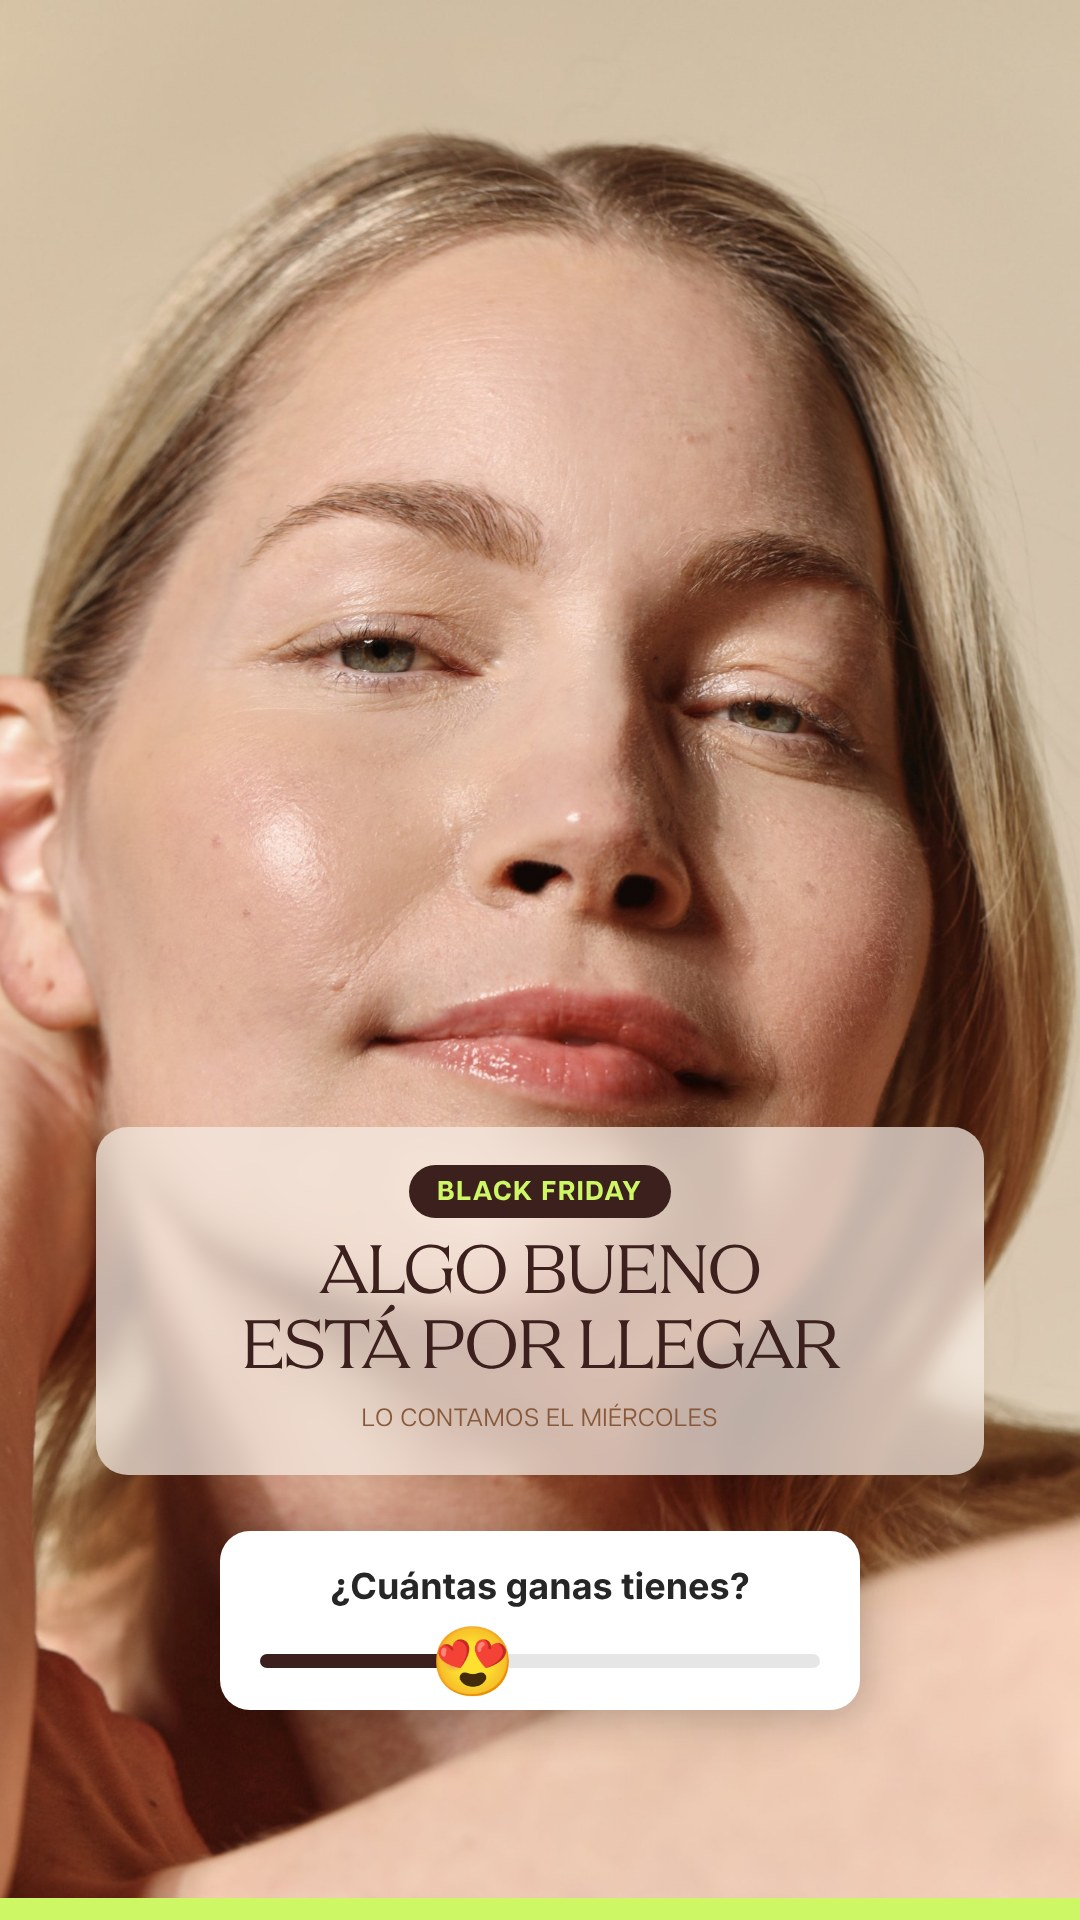
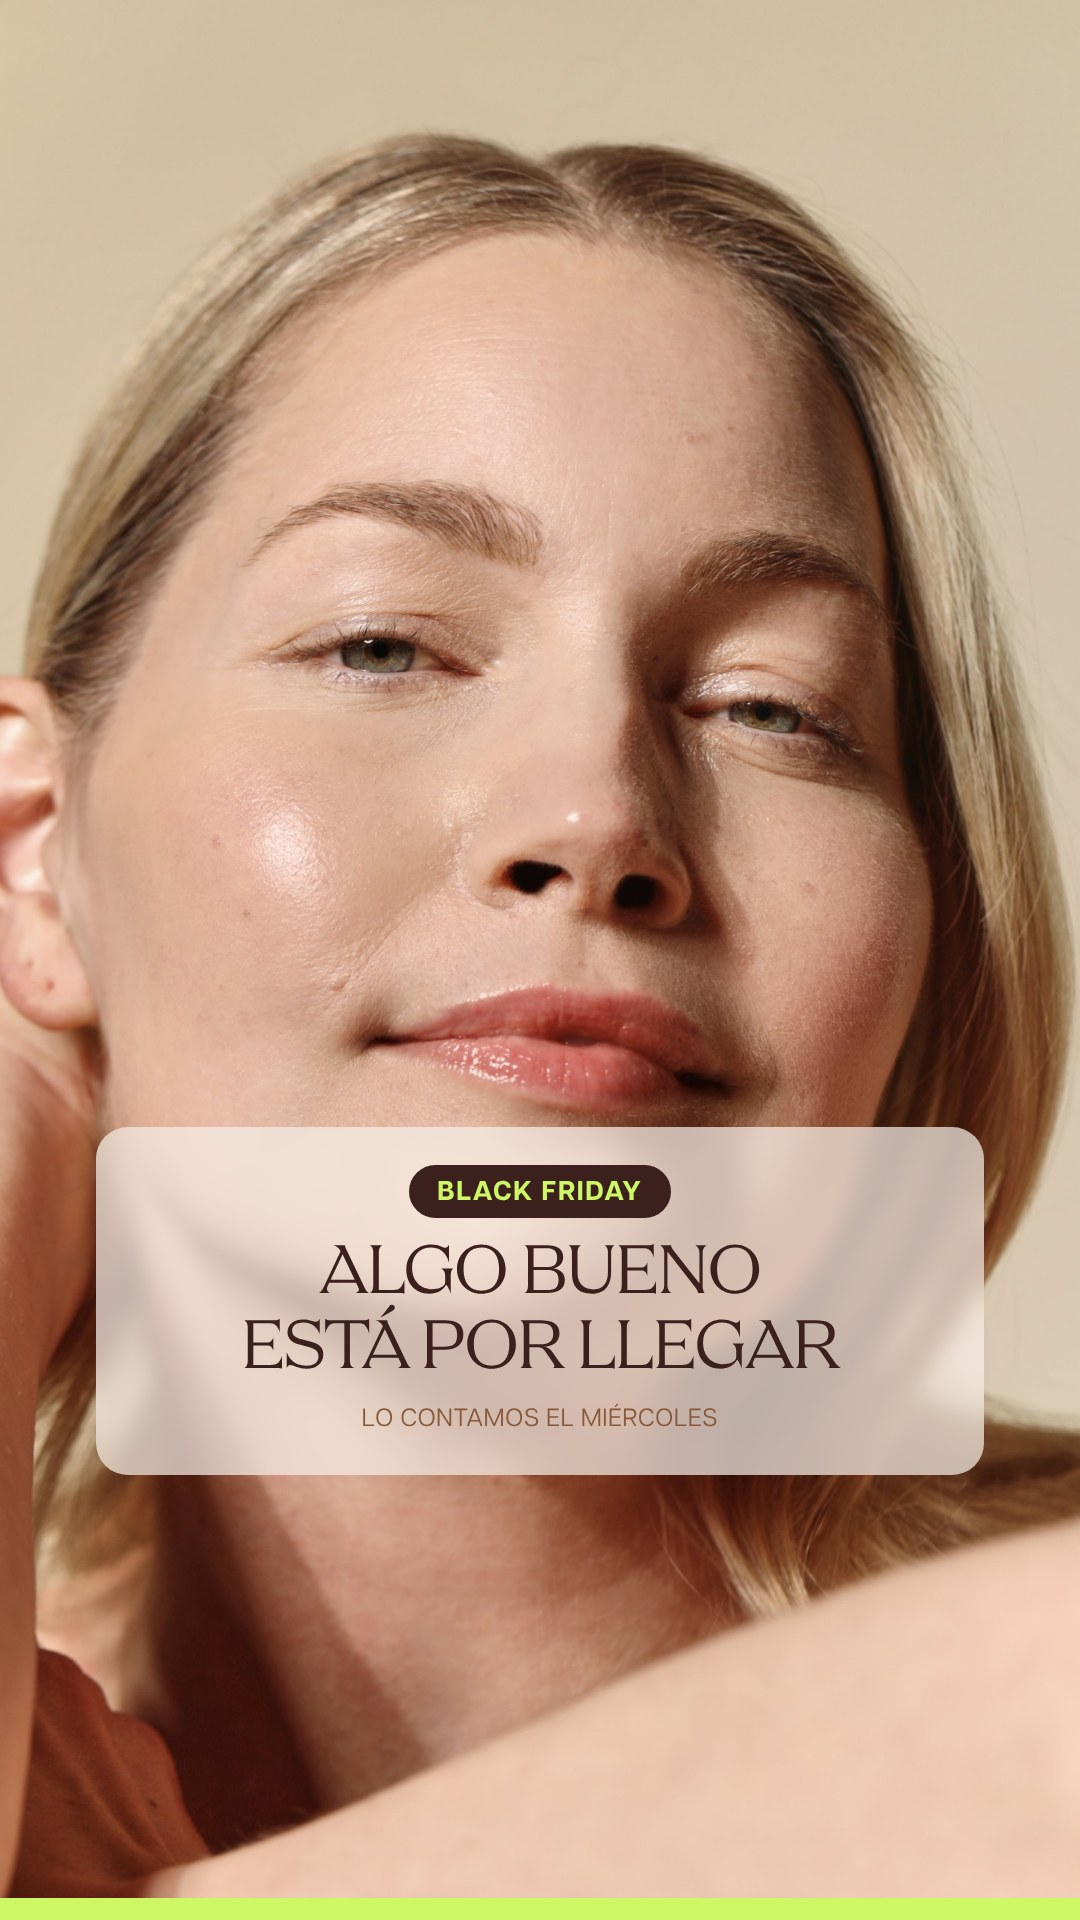
Lunes 16: story 1 del teaser sin sticker
Claude-Session: https://claude.ai/code/session_01JZ4qrB4vBJCM1LriYw1bZU

Changed region(s): [[0.1833, 0.7812, 0.825, 0.9062]]

diff --git a/public/pitch/skin-laundry-calendario/noviembre/index.html b/public/pitch/skin-laundry-calendario/noviembre/index.html
@@ -886,8 +886,8 @@ const MOSTRAR_STORIES = false;
 const STORIES = {
   /* Pedidas por el cliente el mismo día: teaser del Black Friday (sin enseñar la oferta, que se desvela el 18) */
   16: { titulo:"Teaser Black Friday", hora:"Hoy", estado:"listo",
-        imgs:["/pitch/skin-laundry-calendario/noviembre/img/s16_1.jpg?v=11161325","/pitch/skin-laundry-calendario/noviembre/img/s16_2.jpg?v=11161325","/pitch/skin-laundry-calendario/noviembre/img/s16_3.jpg?v=11161325"],
-        items:["Algo bueno está por llegar · lo contamos el miércoles · deslizador de emoji: ¿cuántas ganas tienes? 😍","Tu lista de deseos: ¿hay algo para tu piel este año? · caja de preguntas: ¿qué tratamiento te pedirías?","Cuenta atrás · sticker de cuenta atrás hasta el miércoles 18 a las 19:30 (sale el post) · activa el recordatorio"] },
+        imgs:["/pitch/skin-laundry-calendario/noviembre/img/s16_1.jpg?v=11161330","/pitch/skin-laundry-calendario/noviembre/img/s16_2.jpg?v=11161325","/pitch/skin-laundry-calendario/noviembre/img/s16_3.jpg?v=11161325"],
+        items:["Algo bueno está por llegar · lo contamos el miércoles · sin sticker","Tu lista de deseos: ¿hay algo para tu piel este año? · caja de preguntas: ¿qué tratamiento te pedirías?","Cuenta atrás · sticker de cuenta atrás hasta el miércoles 18 a las 19:30 (sale el post) · activa el recordatorio"] },
   /* Pack que iba a salir el miércoles 11 y no se publicó: pasa al viernes 13 */
   13: { titulo:"Pack de stories", hora:"12:00h", estado:"listo",
         imgs:["/pitch/skin-laundry-calendario/noviembre/img/s13_1.jpg?v=11120220","/pitch/skin-laundry-calendario/noviembre/img/s13_2.jpg?v=11120220","/pitch/skin-laundry-calendario/noviembre/img/s13_3.jpg?v=11121312"],
